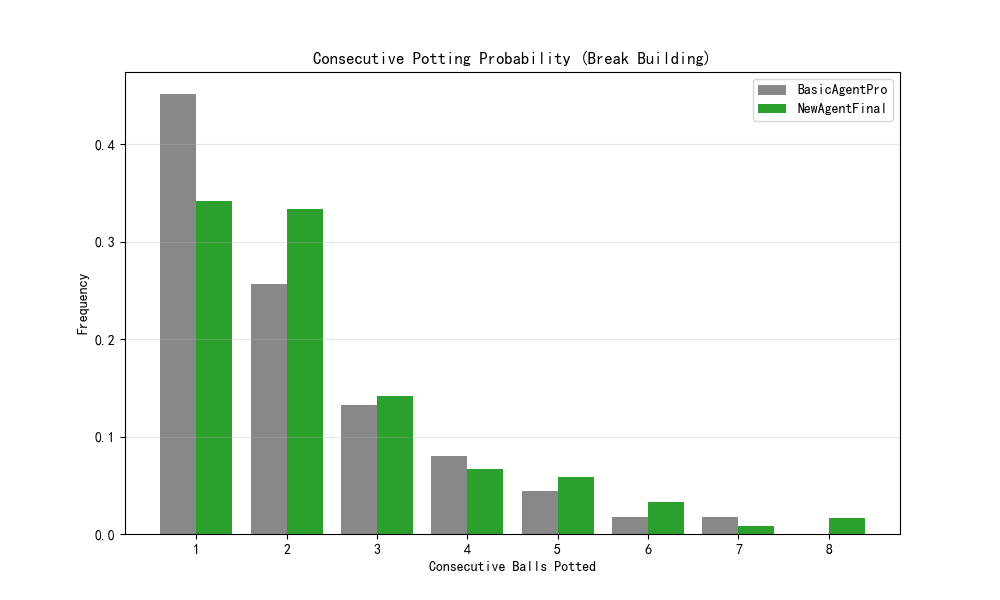
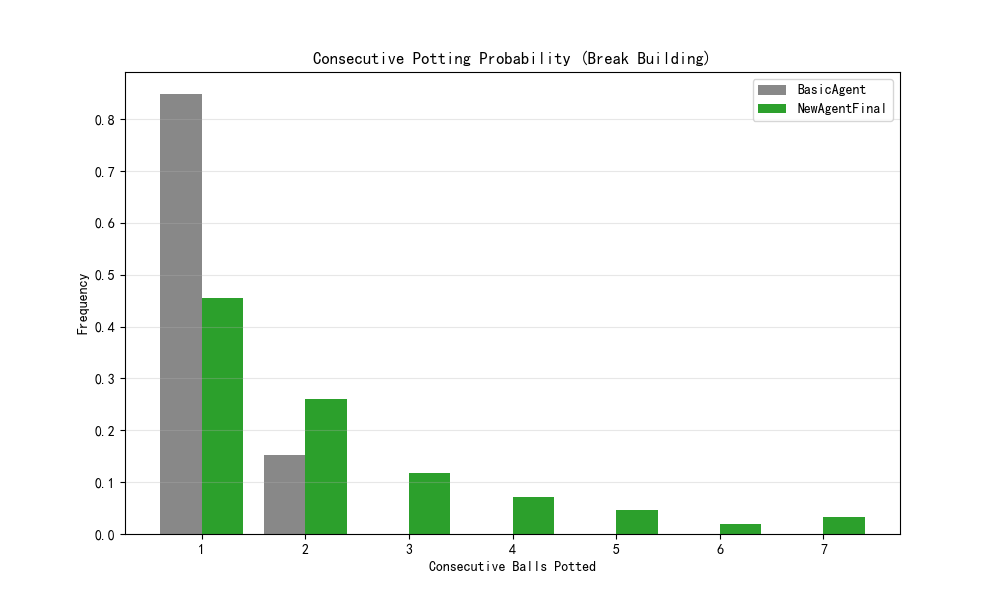
Update advanced analytics scripts and assets

diff --git a/analysis_scripts/advanced_analytics.py b/analysis_scripts/advanced_analytics.py
@@ -10,7 +10,7 @@ import matplotlib.pyplot as plt
 import numpy as np
 import pandas as pd
 from poolenv import PoolEnv
-from agents import BasicAgentPro, NewAgentFinal
+from agents import BasicAgent, NewAgentFinal
 from utils import set_random_seed
 
 # 设置中文字体，尝试几个常见的中文字体
@@ -27,18 +27,18 @@ def run_advanced_analytics():
     n_games = 50 
     
     # 初始化 Agent
-    agent_baseline = BasicAgentPro()
+    agent_baseline = BasicAgent()
     agent_hero = NewAgentFinal()
     
     # 映射名称到 ID
     agent_map = {
-        'BasicAgentPro': agent_baseline,
+        'BasicAgent': agent_baseline,
         'NewAgentFinal': agent_hero
     }
     
     # 统计数据结构
     stats = {
-        'BasicAgentPro': {
+        'BasicAgent': {
             'games_played': 0, 'games_won': 0,
             'shots_total': 0, 'shots_potted': 0, 'fouls': 0,
             'streaks': [], 'current_streak': 0,
@@ -65,13 +65,13 @@ def run_advanced_analytics():
         # 偶数局: A=Basic, B=New
         # 奇数局: A=New, B=Basic
         if i % 2 == 0:
-            pA_name = 'BasicAgentPro'
+            pA_name = 'BasicAgent'
             pB_name = 'NewAgentFinal'
             pA_agent = agent_baseline
             pB_agent = agent_hero
         else:
             pA_name = 'NewAgentFinal'
-            pB_name = 'BasicAgentPro'
+            pB_name = 'BasicAgent'
             pA_agent = agent_hero
             pB_agent = agent_baseline
             
@@ -127,7 +127,7 @@ def run_advanced_analytics():
                 if stats[current_agent_name]['current_streak'] > 0:
                     stats[current_agent_name]['streaks'].append(stats[current_agent_name]['current_streak'])
                 
-                stats['BasicAgentPro']['games_played'] += 1
+                stats['BasicAgent']['games_played'] += 1
                 stats['NewAgentFinal']['games_played'] += 1
                 
                 if winner_symbol != 'SAME':
@@ -172,10 +172,10 @@ def run_advanced_analytics():
     
     # 获取数据
     val_basic = [
-        df[df['Agent']=='BasicAgentPro']['Potting Accuracy'].values[0],
-        df[df['Agent']=='BasicAgentPro']['Foul Rate'].values[0],
-        df[df['Agent']=='BasicAgentPro']['Avg Streak'].values[0],
-        df[df['Agent']=='BasicAgentPro']['Avg Shots per Win'].values[0]
+        df[df['Agent']=='BasicAgent']['Potting Accuracy'].values[0],
+        df[df['Agent']=='BasicAgent']['Foul Rate'].values[0],
+        df[df['Agent']=='BasicAgent']['Avg Streak'].values[0],
+        df[df['Agent']=='BasicAgent']['Avg Shots per Win'].values[0]
     ]
     
     val_new = [
@@ -186,7 +186,7 @@ def run_advanced_analytics():
     ]
     
     # 绘制
-    rects1 = ax.bar(x - width/2, val_basic, width, label='BasicAgentPro', color='#888888')
+    rects1 = ax.bar(x - width/2, val_basic, width, label='BasicAgent', color='#888888')
     rects2 = ax.bar(x + width/2, val_new, width, label='NewAgentFinal', color='#2ca02c') # Green for hero
     
     ax.set_ylabel('Value')
@@ -214,7 +214,7 @@ def run_advanced_analytics():
     
     # 2. 连续进球能力分布 (Streak Distribution) - 很专业的指标
     # 统计两个agent的所有streaks
-    streaks_basic = stats['BasicAgentPro']['streaks']
+    streaks_basic = stats['BasicAgent']['streaks']
     streaks_new = stats['NewAgentFinal']['streaks']
     
     plt.figure(figsize=(10, 6))
@@ -222,7 +222,7 @@ def run_advanced_analytics():
     max_s = max(max(streaks_basic) if streaks_basic else 1, max(streaks_new) if streaks_new else 1)
     bins = np.arange(1, max_s + 2) - 0.5
     
-    plt.hist([streaks_basic, streaks_new], bins=bins, label=['BasicAgentPro', 'NewAgentFinal'], 
+    plt.hist([streaks_basic, streaks_new], bins=bins, label=['BasicAgent', 'NewAgentFinal'], 
              color=['#888888', '#2ca02c'], density=True)
     
     plt.title('Consecutive Potting Probability (Break Building)')
